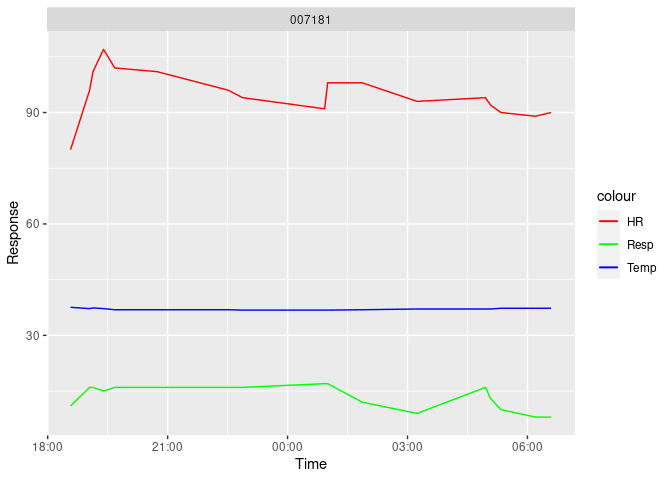
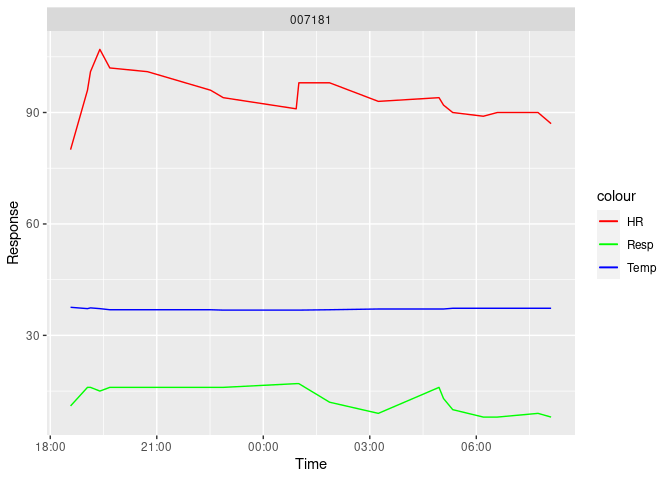
Updated report

diff --git a/AutoSepReport.md b/AutoSepReport.md
@@ -10,7 +10,7 @@ heart rate (HR), temperature (Temp), and respiratory rate (Resp).
 
 ### Report last updated:
 
-2023-04-11 07:04:58
+2023-04-11 08:09:05
 
 ## Physio Measures for Sampled Sepsis Patients
 
@@ -37,4 +37,4 @@ heart rate (HR), temperature (Temp), and respiratory rate (Resp).
 
 | PatientID | Change in Heart Rate | Change in Temperature | Change in Respiratory Rate |
 |:----------|---------------------:|----------------------:|---------------------------:|
-| 007181    |                    1 |                     0 |                          0 |
+| 007181    |                   -3 |                     0 |                         -1 |
